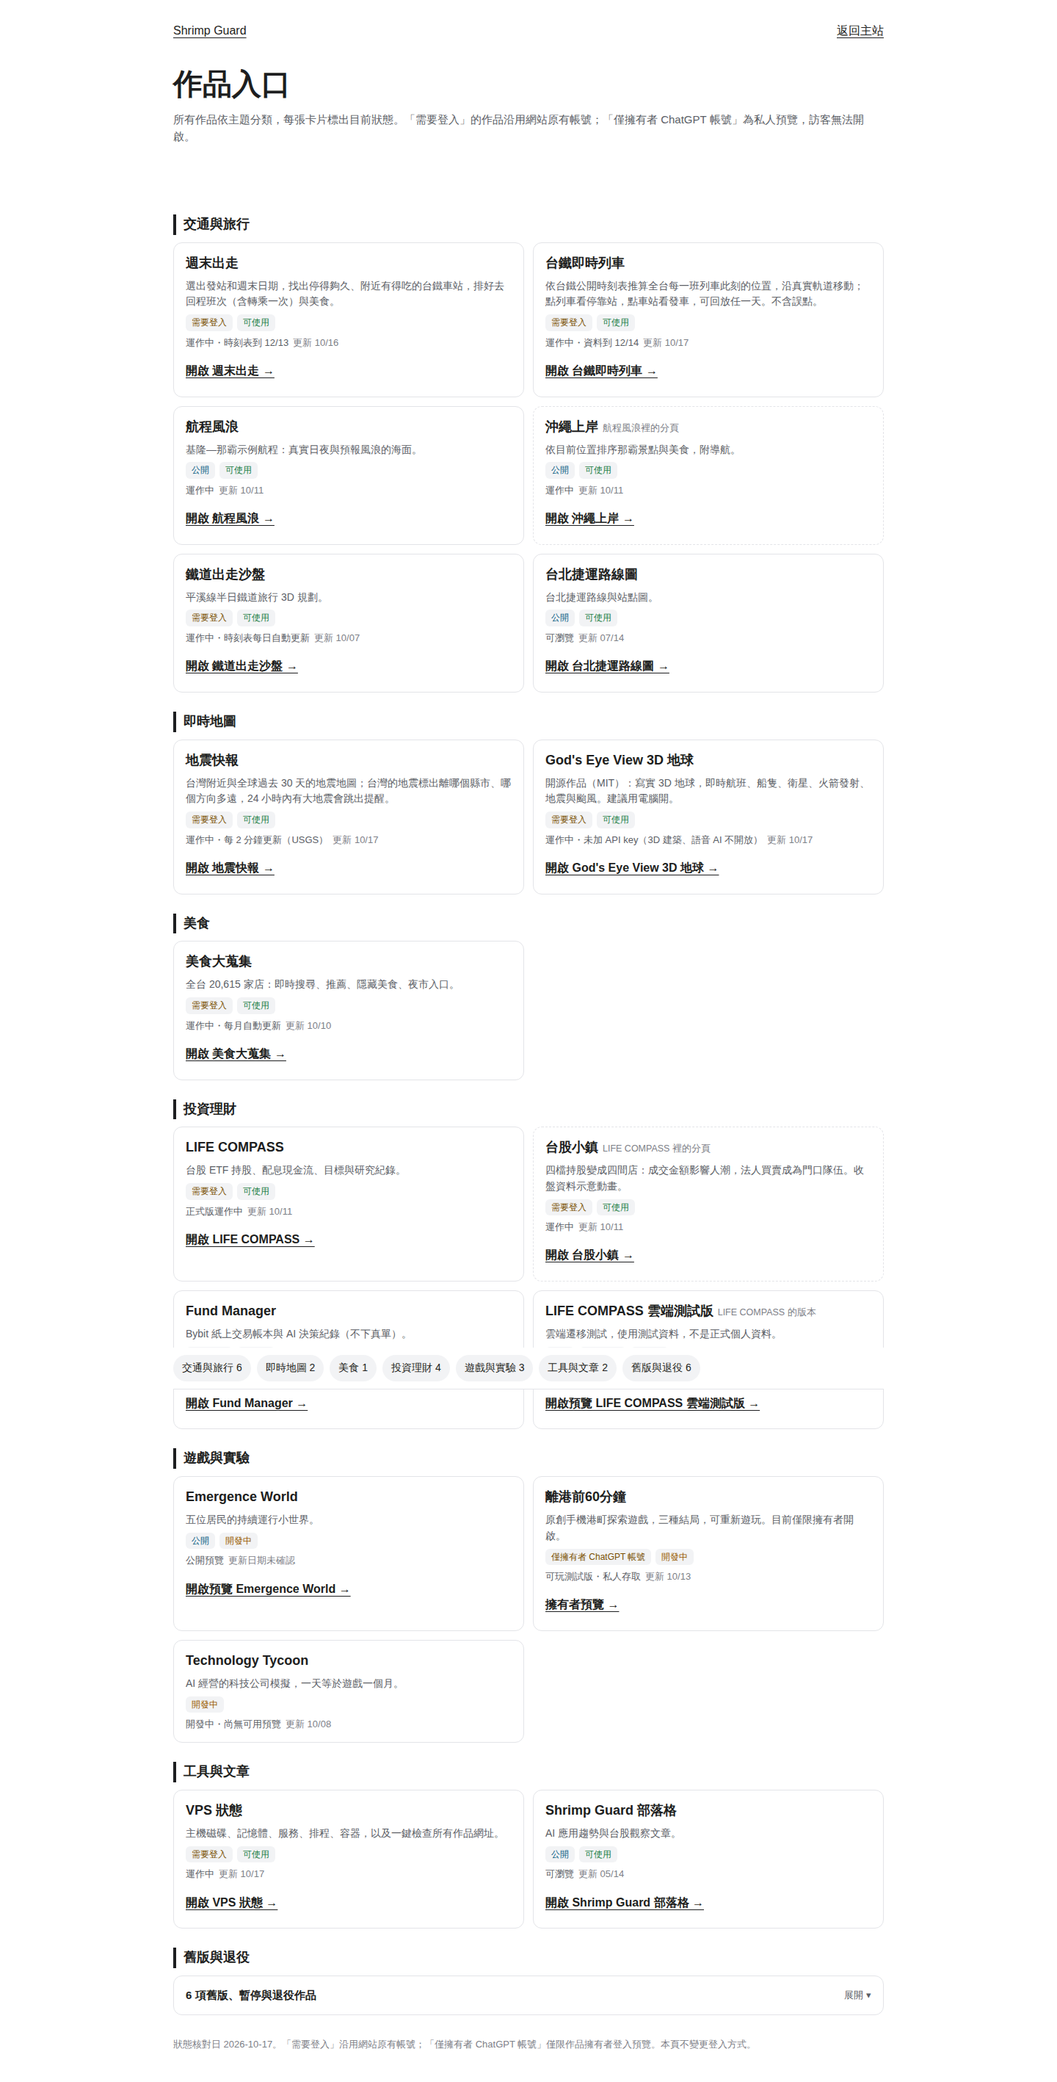
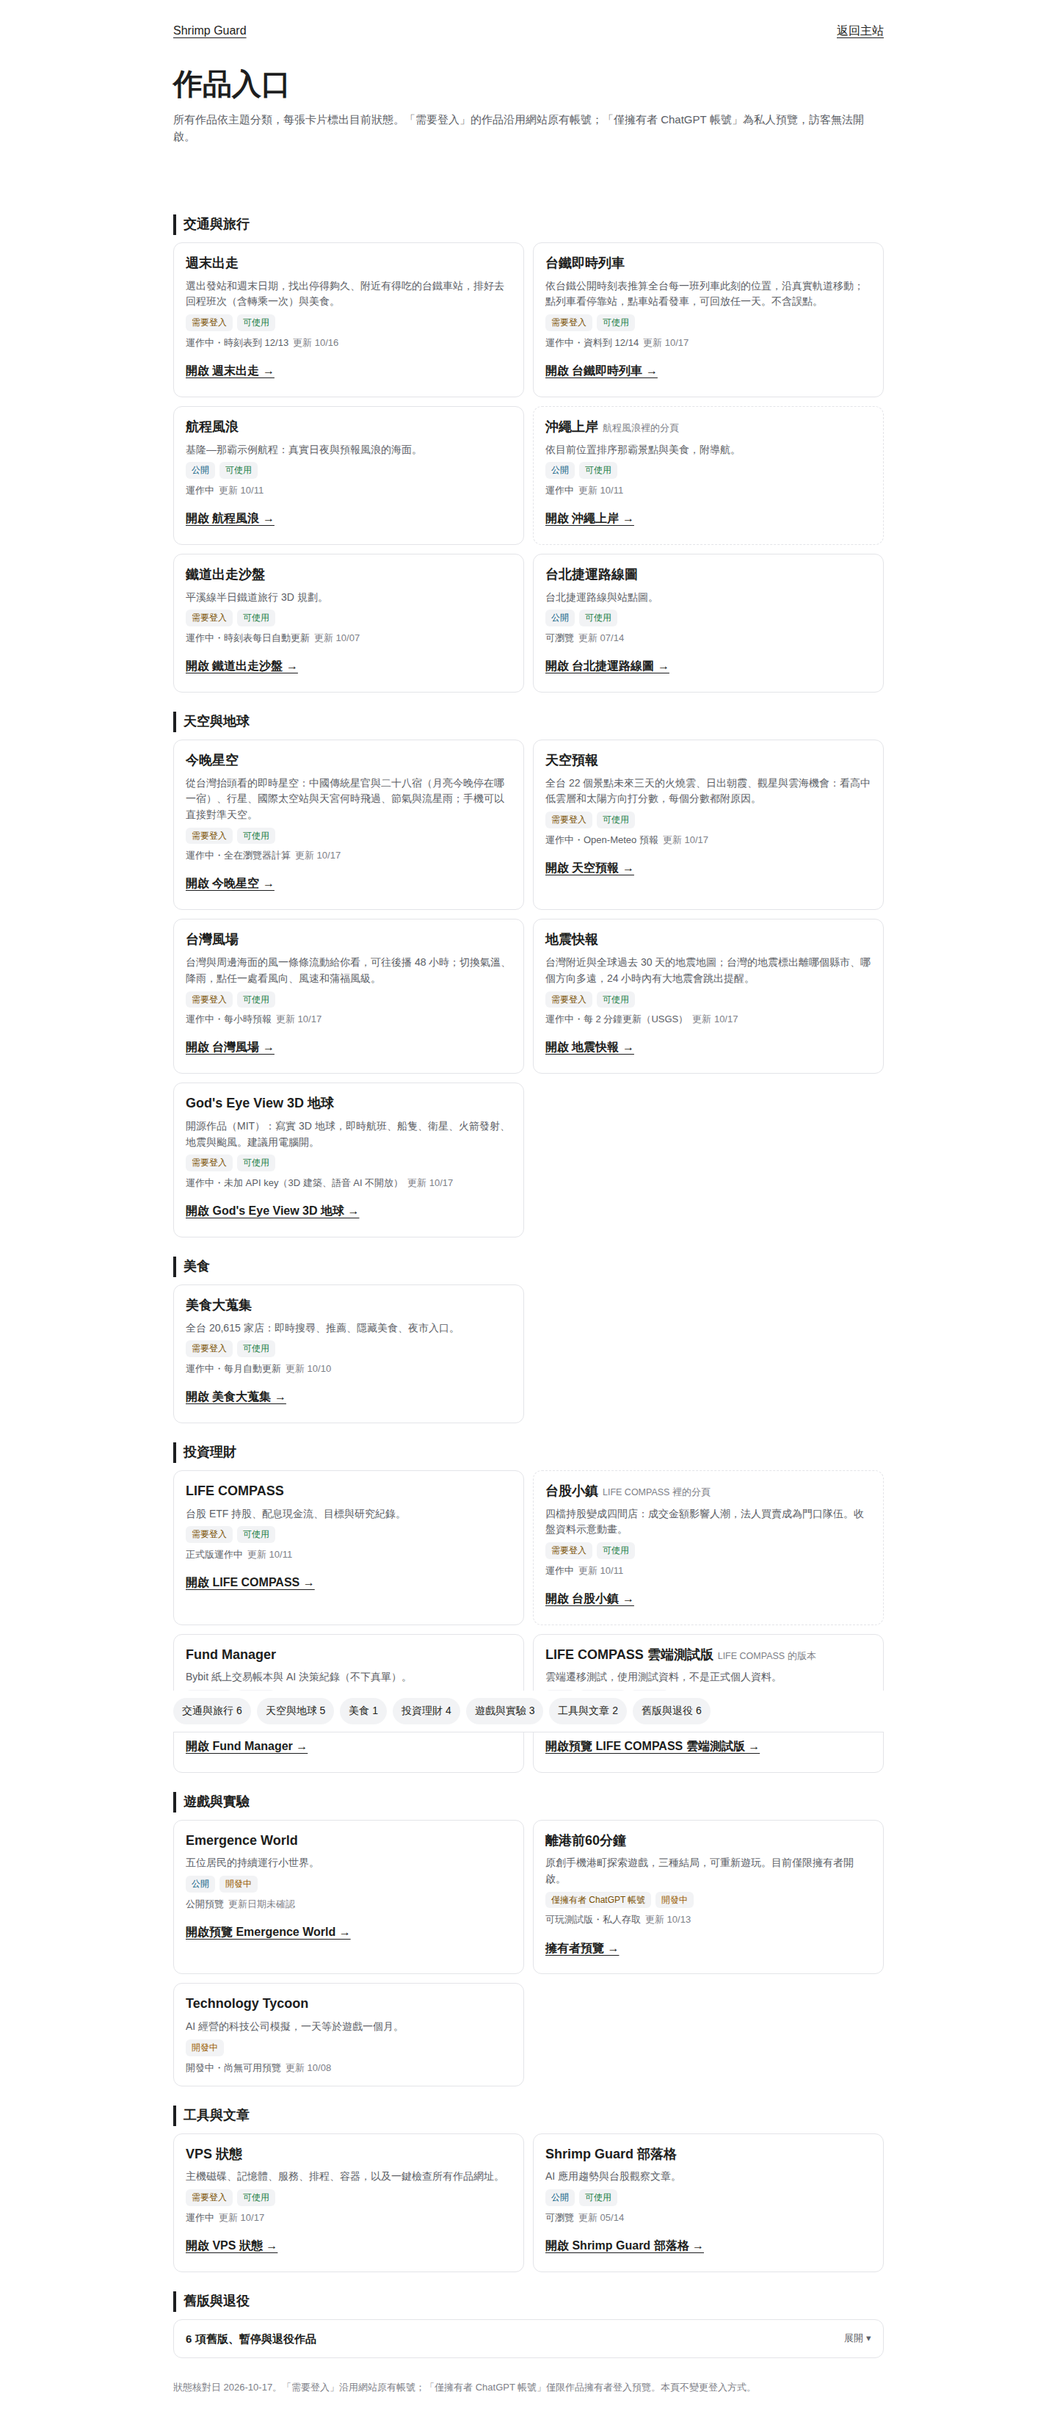
projects: add 今晚星空, 天空預報, 台灣風場; 即時地圖 → 天空與地球 (27 works)
Claude-Session: https://claude.ai/code/session_01GVcRfQhdVaSGc69DiKrmzk

diff --git a/overlays/projects/index.html b/overlays/projects/index.html
@@ -1,0 +1,28 @@
+<!doctype html><html lang="zh-Hant"><head><meta charset="utf-8"><meta name="viewport" content="width=device-width,initial-scale=1"><title>作品入口 · Shrimp Guard</title><meta name="description" content="Shrimp Guard 所有作品與目前狀態。"><style>
+:root{color-scheme:light dark;--bg:#fff;--card:#fff;--ink:#1d1e20;--ink2:#5b5e66;--ink3:#7d8087;--line:#e3e4e8;--chip:#f2f3f5;--ok:#1d7f46;--dev:#9a5c00;--old:#6c6f77;--ask:#5b43b0;--lock:#7a5000;--pub:#0a5f85}
+@media (prefers-color-scheme:dark){:root{--bg:#1d1e20;--card:#26272b;--ink:#dadadb;--ink2:#b0b2b7;--ink3:#8c8f96;--line:#38393e;--chip:#313237;--ok:#57c785;--dev:#e3a23a;--old:#a3a6ad;--ask:#ad98f2;--lock:#e5b864;--pub:#64bde4}}
+*{box-sizing:border-box}body{margin:0;background:var(--bg);color:var(--ink);font-family:-apple-system,BlinkMacSystemFont,"Segoe UI","PingFang TC","Noto Sans TC",sans-serif;line-height:1.55}
+.shell{max-width:1000px;margin:auto;padding:20px 16px 40px}
+nav.top{display:flex;justify-content:space-between;align-items:center}nav.top a{color:var(--ink);padding:10px 0;text-decoration:underline;text-underline-offset:4px}
+h1{font-size:clamp(28px,5vw,40px);margin:18px 0 6px}.intro{color:var(--ink2);margin:0;font-size:15px}
+.jump{position:sticky;top:0;z-index:2;background:var(--bg);display:flex;gap:8px;overflow-x:auto;padding:10px 0;margin-top:12px;border-bottom:1px solid var(--line)}
+.jump a{flex:none;font-size:14px;padding:7px 12px;border-radius:999px;background:var(--chip);color:var(--ink);text-decoration:none;white-space:nowrap}
+section{scroll-margin-top:60px}h2{font-size:18px;margin:26px 0 10px;padding-left:10px;border-left:4px solid var(--ink)}
+.grid{display:grid;grid-template-columns:repeat(2,minmax(0,1fr));gap:12px}
+.card{background:var(--card);border:1px solid var(--line);border-radius:12px;padding:14px 16px;display:flex;flex-direction:column;gap:6px;min-width:0}
+.card.sub{border-style:dashed}
+.name{font-size:18px;font-weight:700;margin:0}.of{font-size:12.5px;color:var(--ink3);font-weight:400;margin-left:6px}
+.desc{font-size:14px;color:var(--ink2);margin:0}
+.tags{display:flex;gap:6px;flex-wrap:wrap;margin:0;padding:0;list-style:none}
+.tags li{font-size:12px;padding:2px 8px;border-radius:6px;background:var(--chip);color:var(--ink2)}
+.tags .pub{color:var(--pub)}.tags .lock{color:var(--lock)}.tags .ok{color:var(--ok)}.tags .dev{color:var(--dev)}.tags .old{color:var(--old)}.tags .ask{color:var(--ask)}.tags .test{color:var(--dev);font-weight:700}
+.st{font-size:13px;color:var(--ink2);margin:0}.st time{color:var(--ink3);margin-left:6px}
+.open{margin:2px 0 0}.open a{display:inline-block;padding:8px 0;color:var(--ink);font-weight:700;text-decoration:underline;text-underline-offset:4px}
+details{border:1px solid var(--line);border-radius:12px;background:var(--card)}
+summary{cursor:pointer;padding:14px 16px;font-size:15px;font-weight:700;display:flex;justify-content:space-between;align-items:center}
+summary::-webkit-details-marker{display:none}summary::after{content:"展開 ▾";font-size:13px;font-weight:500;color:var(--ink2)}details[open] summary::after{content:"收合 ▴"}
+details .grid{padding:0 12px 12px}
+footer{margin-top:28px;font-size:13px;color:var(--ink3);line-height:1.8}
+a:focus-visible,summary:focus-visible{outline:3px solid #6797c0;outline-offset:4px}
+@media(max-width:600px){.grid{grid-template-columns:1fr}}
+</style></head><body><div class="shell"><nav class="top" aria-label="網站導覽"><a href="/">Shrimp Guard</a><a href="/">返回主站</a></nav><main><h1>作品入口</h1><p class="intro">所有作品依主題分類，每張卡片標出目前狀態。「需要登入」的作品沿用網站原有帳號；「僅擁有者 ChatGPT 帳號」為私人預覽，訪客無法開啟。</p><nav class="jump" aria-label="分類"><a href="#travel">交通與旅行 6</a><a href="#live">天空與地球 5</a><a href="#food">美食 1</a><a href="#money">投資理財 4</a><a href="#lab">遊戲與實驗 3</a><a href="#tools">工具與文章 2</a><a href="#old">舊版與退役 6</a></nav><section id="travel" aria-label="交通與旅行"><h2>交通與旅行</h2><div class="grid"><article class="card"><h3 class="name">週末出走</h3><p class="desc">選出發站和週末日期，找出停得夠久、附近有得吃的台鐵車站，排好去回程班次（含轉乘一次）與美食。</p><ul class="tags"><li class="lock">需要登入</li><li class="ok">可使用</li></ul><p class="st">運作中・時刻表到 12/13<time>更新 10/16</time></p><p class="open"><a href="https://dashboard.shrimp-guard.us.ci/weekend/">開啟 週末出走 →</a></p></article><article class="card"><h3 class="name">台鐵即時列車</h3><p class="desc">依台鐵公開時刻表推算全台每一班列車此刻的位置，沿真實軌道移動；點列車看停靠站，點車站看發車，可回放任一天。不含誤點。</p><ul class="tags"><li class="lock">需要登入</li><li class="ok">可使用</li></ul><p class="st">運作中・資料到 12/14<time>更新 10/17</time></p><p class="open"><a href="https://dashboard.shrimp-guard.us.ci/apps/rail-live/">開啟 台鐵即時列車 →</a></p></article><article class="card"><h3 class="name">航程風浪</h3><p class="desc">基隆—那霸示例航程：真實日夜與預報風浪的海面。</p><ul class="tags"><li class="pub">公開</li><li class="ok">可使用</li></ul><p class="st">運作中<time>更新 10/11</time></p><p class="open"><a href="/room/">開啟 航程風浪 →</a></p></article><article class="card sub"><h3 class="name">沖繩上岸<span class="of">航程風浪裡的分頁</span></h3><p class="desc">依目前位置排序那霸景點與美食，附導航。</p><ul class="tags"><li class="pub">公開</li><li class="ok">可使用</li></ul><p class="st">運作中<time>更新 10/11</time></p><p class="open"><a href="/room/#landing">開啟 沖繩上岸 →</a></p></article><article class="card"><h3 class="name">鐵道出走沙盤</h3><p class="desc">平溪線半日鐵道旅行 3D 規劃。</p><ul class="tags"><li class="lock">需要登入</li><li class="ok">可使用</li></ul><p class="st">運作中・時刻表每日自動更新<time>更新 10/07</time></p><p class="open"><a href="https://dashboard.shrimp-guard.us.ci/rail-trip/">開啟 鐵道出走沙盤 →</a></p></article><article class="card"><h3 class="name">台北捷運路線圖</h3><p class="desc">台北捷運路線與站點圖。</p><ul class="tags"><li class="pub">公開</li><li class="ok">可使用</li></ul><p class="st">可瀏覽<time>更新 07/14</time></p><p class="open"><a href="/taipei-mrt/">開啟 台北捷運路線圖 →</a></p></article></div></section><section id="live" aria-label="天空與地球"><h2>天空與地球</h2><div class="grid"><article class="card"><h3 class="name">今晚星空</h3><p class="desc">從台灣抬頭看的即時星空：中國傳統星官與二十八宿（月亮今晚停在哪一宿）、行星、國際太空站與天宮何時飛過、節氣與流星雨；手機可以直接對準天空。</p><ul class="tags"><li class="lock">需要登入</li><li class="ok">可使用</li></ul><p class="st">運作中・全在瀏覽器計算<time>更新 10/17</time></p><p class="open"><a href="https://dashboard.shrimp-guard.us.ci/apps/sky/">開啟 今晚星空 →</a></p></article><article class="card"><h3 class="name">天空預報</h3><p class="desc">全台 22 個景點未來三天的火燒雲、日出朝霞、觀星與雲海機會：看高中低雲層和太陽方向打分數，每個分數都附原因。</p><ul class="tags"><li class="lock">需要登入</li><li class="ok">可使用</li></ul><p class="st">運作中・Open-Meteo 預報<time>更新 10/17</time></p><p class="open"><a href="https://dashboard.shrimp-guard.us.ci/apps/skycast/">開啟 天空預報 →</a></p></article><article class="card"><h3 class="name">台灣風場</h3><p class="desc">台灣與周邊海面的風一條條流動給你看，可往後播 48 小時；切換氣溫、降雨，點任一處看風向、風速和蒲福風級。</p><ul class="tags"><li class="lock">需要登入</li><li class="ok">可使用</li></ul><p class="st">運作中・每小時預報<time>更新 10/17</time></p><p class="open"><a href="https://dashboard.shrimp-guard.us.ci/apps/wind/">開啟 台灣風場 →</a></p></article><article class="card"><h3 class="name">地震快報</h3><p class="desc">台灣附近與全球過去 30 天的地震地圖；台灣的地震標出離哪個縣市、哪個方向多遠，24 小時內有大地震會跳出提醒。</p><ul class="tags"><li class="lock">需要登入</li><li class="ok">可使用</li></ul><p class="st">運作中・每 2 分鐘更新（USGS）<time>更新 10/17</time></p><p class="open"><a href="https://dashboard.shrimp-guard.us.ci/apps/quake/">開啟 地震快報 →</a></p></article><article class="card"><h3 class="name">God&#x27;s Eye View 3D 地球</h3><p class="desc">開源作品（MIT）：寫實 3D 地球，即時航班、船隻、衛星、火箭發射、地震與颱風。建議用電腦開。</p><ul class="tags"><li class="lock">需要登入</li><li class="ok">可使用</li></ul><p class="st">運作中・未加 API key（3D 建築、語音 AI 不開放）<time>更新 10/17</time></p><p class="open"><a href="https://dashboard.shrimp-guard.us.ci/globe/">開啟 God&#x27;s Eye View 3D 地球 →</a></p></article></div></section><section id="food" aria-label="美食"><h2>美食</h2><div class="grid"><article class="card"><h3 class="name">美食大蒐集</h3><p class="desc">全台 20,615 家店：即時搜尋、推薦、隱藏美食、夜市入口。</p><ul class="tags"><li class="lock">需要登入</li><li class="ok">可使用</li></ul><p class="st">運作中・每月自動更新<time>更新 10/10</time></p><p class="open"><a href="https://dashboard.shrimp-guard.us.ci/food-map/">開啟 美食大蒐集 →</a></p></article></div></section><section id="money" aria-label="投資理財"><h2>投資理財</h2><div class="grid"><article class="card"><h3 class="name">LIFE COMPASS</h3><p class="desc">台股 ETF 持股、配息現金流、目標與研究紀錄。</p><ul class="tags"><li class="lock">需要登入</li><li class="ok">可使用</li></ul><p class="st">正式版運作中<time>更新 10/11</time></p><p class="open"><a href="https://dashboard.shrimp-guard.us.ci/one-life/">開啟 LIFE COMPASS →</a></p></article><article class="card sub"><h3 class="name">台股小鎮<span class="of">LIFE COMPASS 裡的分頁</span></h3><p class="desc">四檔持股變成四間店：成交金額影響人潮，法人買賣成為門口隊伍。收盤資料示意動畫。</p><ul class="tags"><li class="lock">需要登入</li><li class="ok">可使用</li></ul><p class="st">運作中<time>更新 10/11</time></p><p class="open"><a href="https://dashboard.shrimp-guard.us.ci/one-life/#town">開啟 台股小鎮 →</a></p></article><article class="card"><h3 class="name">Fund Manager</h3><p class="desc">Bybit 紙上交易帳本與 AI 決策紀錄（不下真單）。</p><ul class="tags"><li class="lock">需要登入</li><li class="ok">可使用</li></ul><p class="st">V1 紙上帳本運作中・V2 300U 已停止<time>更新 10/12</time></p><p class="open"><a href="https://dashboard.shrimp-guard.us.ci/fund-manager/">開啟 Fund Manager →</a></p></article><article class="card"><h3 class="name">LIFE COMPASS 雲端測試版<span class="of">LIFE COMPASS 的版本</span></h3><p class="desc">雲端遷移測試，使用測試資料，不是正式個人資料。</p><ul class="tags"><li class="pub">公開</li><li class="test">測試資料</li><li class="dev">開發中</li></ul><p class="st">測試中<time>更新 10/12</time></p><p class="open"><a href="https://life-compass.httpsmulticlawmoltidworkersdevcmolt32c002a10b29b0e3ad3.workers.dev/">開啟預覽 LIFE COMPASS 雲端測試版 →</a></p></article></div></section><section id="lab" aria-label="遊戲與實驗"><h2>遊戲與實驗</h2><div class="grid"><article class="card"><h3 class="name">Emergence World</h3><p class="desc">五位居民的持續運行小世界。</p><ul class="tags"><li class="pub">公開</li><li class="dev">開發中</li></ul><p class="st">公開預覽<time>更新日期未確認</time></p><p class="open"><a href="https://emergence-world-preview.httpsmulticlawmoltidworkersdevcmolt32c002a10b29b0e3ad3.workers.dev/">開啟預覽 Emergence World →</a></p></article><article class="card"><h3 class="name">離港前60分鐘</h3><p class="desc">原創手機港町探索遊戲，三種結局，可重新遊玩。目前僅限擁有者開啟。</p><ul class="tags"><li class="lock">僅擁有者 ChatGPT 帳號</li><li class="dev">開發中</li></ul><p class="st">可玩測試版・私人存取<time>更新 10/13</time></p><p class="open"><a href="https://harbor-sixty-minute-game.windy-maple-0615.chatgpt.site">擁有者預覽 →</a></p></article><article class="card"><h3 class="name">Technology Tycoon</h3><p class="desc">AI 經營的科技公司模擬，一天等於遊戲一個月。</p><ul class="tags"><li class="dev">開發中</li></ul><p class="st">開發中・尚無可用預覽<time>更新 10/08</time></p></article></div></section><section id="tools" aria-label="工具與文章"><h2>工具與文章</h2><div class="grid"><article class="card"><h3 class="name">VPS 狀態</h3><p class="desc">主機磁碟、記憶體、服務、排程、容器，以及一鍵檢查所有作品網址。</p><ul class="tags"><li class="lock">需要登入</li><li class="ok">可使用</li></ul><p class="st">運作中<time>更新 10/17</time></p><p class="open"><a href="https://dashboard.shrimp-guard.us.ci/apps/vps/">開啟 VPS 狀態 →</a></p></article><article class="card"><h3 class="name">Shrimp Guard 部落格</h3><p class="desc">AI 應用趨勢與台股觀察文章。</p><ul class="tags"><li class="pub">公開</li><li class="ok">可使用</li></ul><p class="st">可瀏覽<time>更新 05/14</time></p><p class="open"><a href="/">開啟 Shrimp Guard 部落格 →</a></p></article></div></section><section id="old" aria-label="舊版與退役"><h2>舊版與退役</h2><details><summary>6 項舊版、暫停與退役作品</summary><div class="grid"><article class="card"><h3 class="name">小王國</h3><p class="desc">手機王國遊戲（建設村莊、發布懸賞、英雄自行出任務）。</p><ul class="tags"><li class="old">舊版／暫停</li></ul><p class="st">暫停・素材成果保留<time>更新 10/12</time></p></article><article class="card"><h3 class="name">世界與我</h3><p class="desc">原入口保留中。</p><ul class="tags"><li class="pub">公開</li><li class="old">舊版／暫停</li></ul><p class="st">保留中<time>更新 10/08</time></p><p class="open"><a href="/world-impact/">開啟 世界與我 →</a></p></article><article class="card"><h3 class="name">美食大蒐集（公開版）<span class="of">美食大蒐集的版本</span></h3><p class="desc">曾規劃的 GitHub Pages 公開版本。</p><ul class="tags"><li class="old">舊版／暫停</li></ul><p class="st">暫停・正式版在美食大蒐集<time>更新 10/10</time></p></article><article class="card"><h3 class="name">ONE LIFE ／ AI Resident</h3><p class="desc">生活角色實驗，網址已由 LIFE COMPASS 接手。</p><ul class="tags"><li class="old">舊版／暫停</li></ul><p class="st">已退役<time>更新 10/01</time></p></article><article class="card"><h3 class="name">AI COMMONS ／ Latticefolk</h3><p class="desc">多模型社群與 AI 生活世界實驗。</p><ul class="tags"><li class="old">舊版／暫停</li></ul><p class="st">已退役<time>更新 09/30</time></p></article><article class="card"><h3 class="name">Fund Manager V2 300U<span class="of">Fund Manager 的版本</span></h3><p class="desc">300 USDT 雙向持倉紙上帳本。</p><ul class="tags"><li class="old">舊版／暫停</li></ul><p class="st">已停止・紀錄可在 Fund Manager 查看<time>更新 10/12</time></p></article></div></details></section></main><footer>狀態核對日 2026-10-17。「需要登入」沿用網站原有帳號；「僅擁有者 ChatGPT 帳號」僅限作品擁有者登入預覽。本頁不變更登入方式。</footer></div></body></html>

diff --git a/scripts/build_projects_entry.py b/scripts/build_projects_entry.py
@@ -8,6 +8,9 @@ D = 'https://dashboard.shrimp-guard.us.ci'
 CHECKED = '2026-10-17'
 # group: ok 可使用 / dev 開發中 / old 舊版／暫停 (collapsed) / ask 待確認 (no open button)
 WORKS = [
+    dict(c='live', g='ok', name='今晚星空', desc='從台灣抬頭看的即時星空：中國傳統星官與二十八宿（月亮今晚停在哪一宿）、行星、國際太空站與天宮何時飛過、節氣與流星雨；手機可以直接對準天空。', url=D + '/apps/sky/', login=True, st='運作中・全在瀏覽器計算', date='10/17'),
+    dict(c='live', g='ok', name='天空預報', desc='全台 22 個景點未來三天的火燒雲、日出朝霞、觀星與雲海機會：看高中低雲層和太陽方向打分數，每個分數都附原因。', url=D + '/apps/skycast/', login=True, st='運作中・Open-Meteo 預報', date='10/17'),
+    dict(c='live', g='ok', name='台灣風場', desc='台灣與周邊海面的風一條條流動給你看，可往後播 48 小時；切換氣溫、降雨，點任一處看風向、風速和蒲福風級。', url=D + '/apps/wind/', login=True, st='運作中・每小時預報', date='10/17'),
     dict(c='live', g='ok', name='地震快報', desc='台灣附近與全球過去 30 天的地震地圖；台灣的地震標出離哪個縣市、哪個方向多遠，24 小時內有大地震會跳出提醒。', url=D + '/apps/quake/', login=True, st='運作中・每 2 分鐘更新（USGS）', date='10/17'),
     dict(c='travel', g='ok', name='週末出走', desc='選出發站和週末日期，找出停得夠久、附近有得吃的台鐵車站，排好去回程班次（含轉乘一次）與美食。', url=D + '/weekend/', login=True, st='運作中・時刻表到 12/13', date='10/16'),
     dict(c='travel', g='ok', name='台鐵即時列車', desc='依台鐵公開時刻表推算全台每一班列車此刻的位置，沿真實軌道移動；點列車看停靠站，點車站看發車，可回放任一天。不含誤點。', url=D + '/apps/rail-live/', login=True, st='運作中・資料到 12/14', date='10/17'),
@@ -34,7 +37,7 @@ WORKS = [
     dict(c='old', g='old', name='Fund Manager V2 300U', of='Fund Manager 的版本', desc='300 USDT 雙向持倉紙上帳本。', url=None, st='已停止・紀錄可在 Fund Manager 查看', date='10/12'),
 ]
 GROUPS = [('ok', '可使用'), ('dev', '開發中'), ('old', '舊版／暫停')]  # status, shown as a tag on each card
-CATS = [('travel', '交通與旅行'), ('live', '即時地圖'), ('food', '美食'), ('money', '投資理財'), ('lab', '遊戲與實驗'), ('tools', '工具與文章'), ('old', '舊版與退役')]
+CATS = [('travel', '交通與旅行'), ('live', '天空與地球'), ('food', '美食'), ('money', '投資理財'), ('lab', '遊戲與實驗'), ('tools', '工具與文章'), ('old', '舊版與退役')]
 assert all(w['c'] in dict(CATS) for w in WORKS) and all((w['c'] == 'old') == (w['g'] == 'old') for w in WORKS)
 
 CSS = """
